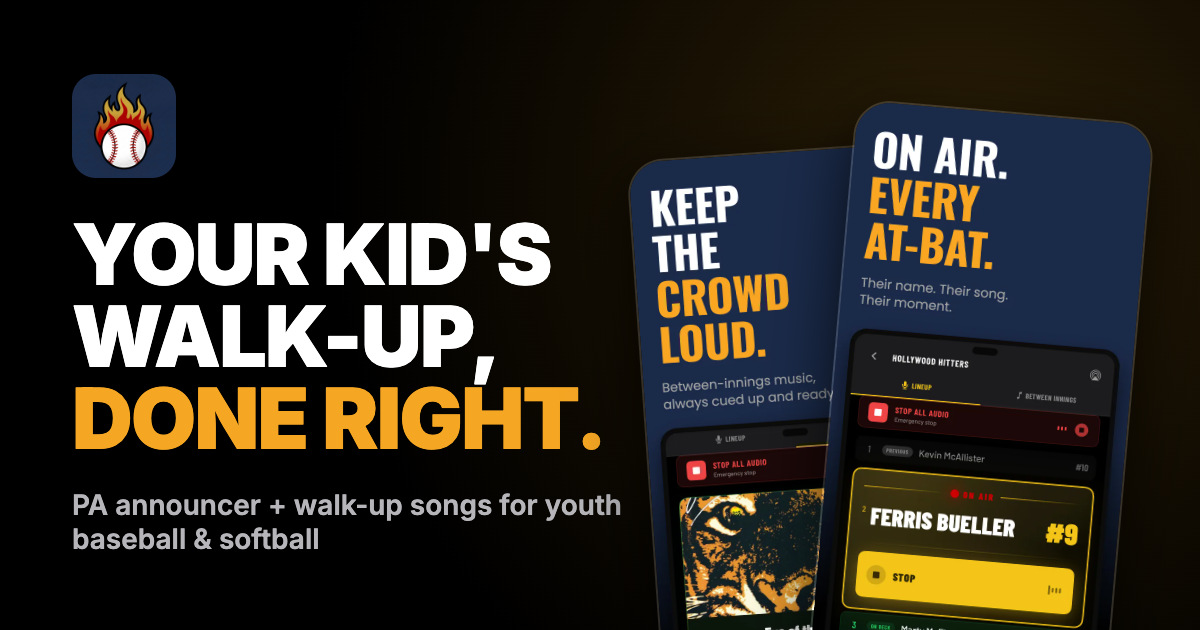
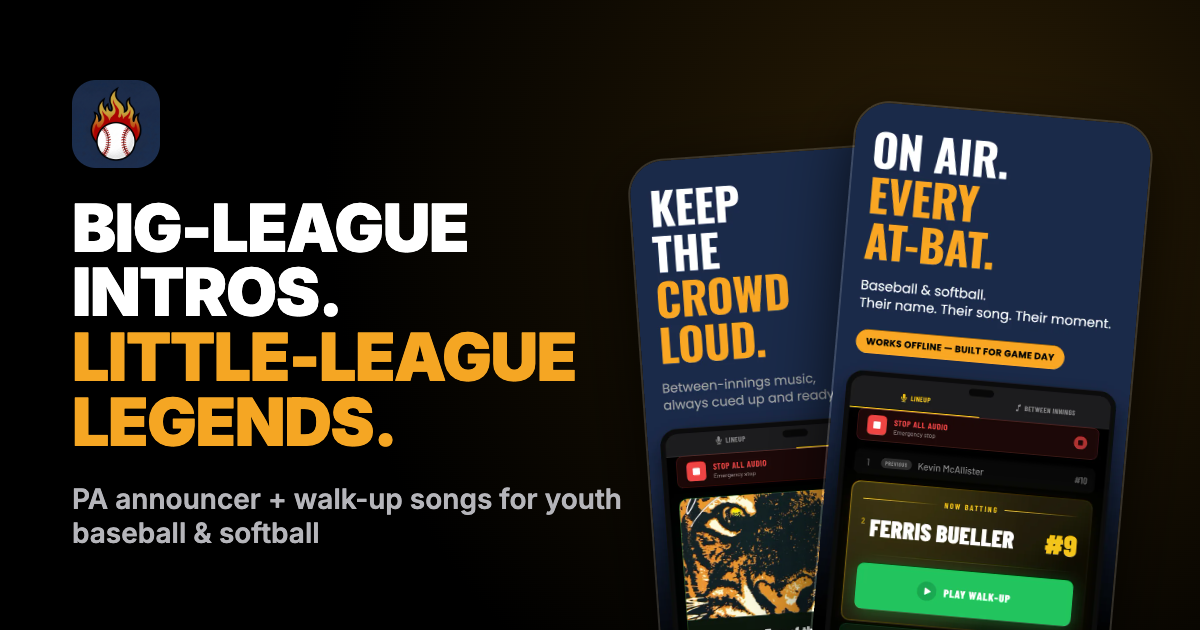
Homepage messaging pass
- Hero: "Big-league intros. Little-league legends." with an outcome subhead
  instead of "AI-powered", and a footnote that leads with free and no
  per-player fees.
- New Parents Pick section: send the link, parents pick, you approve.
- Premium card lists what you buy (all 8 voices, unlimited teams, no
  per-player fees, everything in Free); the button says Download & Try Premium.
  Free card lists parent song collection.
- The "free voice is rough" FAQ is now "Can I try Walk-Up Hype for free?".
- The baseball-dad line moves out of pricing into a short founder section
  with a closing App Store badge.
- Sections alternate black and navy down the page again.
- Share image and og:title use the new headline.

diff --git a/index.html b/index.html
@@ -14,12 +14,12 @@
   <meta property="og:type" content="website" />
   <meta property="og:site_name" content="Walk-Up Hype" />
   <meta property="og:url" content="https://walkuphype.com/" />
-  <meta property="og:title" content="Walk-Up Hype — Your kid's walk-up, done right." />
+  <meta property="og:title" content="Walk-Up Hype — Big-league intros. Little-league legends." />
   <meta property="og:description" content="A stadium announcer calls their name. Their walk-up song hits. Youth baseball &amp; softball, free on the App Store." />
   <meta property="og:image" content="https://walkuphype.com/assets/og-image.png" />
   <meta property="og:image:width" content="1200" />
   <meta property="og:image:height" content="630" />
-  <meta property="og:image:alt" content="Walk-Up Hype: Your kid's walk-up, done right." />
+  <meta property="og:image:alt" content="Walk-Up Hype: Big-league intros. Little-league legends." />
   <meta name="twitter:card" content="summary_large_image" />
   <meta name="twitter:site" content="@walkuphype" />
 
@@ -80,11 +80,11 @@
     <div class="hero-inner">
       <div class="hero-text">
         <h1 class="hero-headline">
-          YOUR KID'S WALK-UP,<br />
-          <span class="gold">DONE RIGHT.</span>
+          BIG-LEAGUE INTROS.<br />
+          <span class="gold">LITTLE-LEAGUE LEGENDS.</span>
         </h1>
         <p class="hero-subhead">
-          AI-powered announcements and walk-up music for youth baseball &amp; softball. Built for the field.
+          Give every player their moment. A stadium-style announcer calls their name, their walk-up song hits, and you run it all from one tap in the dugout.
         </p>
         <p class="hero-devices">For iPhone, iPad &amp; iPhone Duo</p>
         <div class="hero-cta">
@@ -97,7 +97,7 @@
           </div>
         </div>
         <p class="hero-rating"><span class="stars" aria-hidden="true">★★★★★</span> 4.5 from 32 App Store ratings</p>
-        <p class="hero-footnote">7-day free trial &middot; $9.99/year &middot; free tier always available</p>
+        <p class="hero-footnote">Free tier forever &middot; Premium $9.99/year &middot; No per-player fees</p>
       </div>
       <div class="hero-video-wrap">
         <video class="promo-video" autoplay muted loop playsinline poster="assets/promo-poster.jpg">
@@ -180,6 +180,33 @@
         </div>
       </div>
       <p class="voices-note">All eight come with Premium. The free tier includes two built-in voices, including <a href="minor-league-mike.html">Minor League Mike</a>.</p>
+    </div>
+  </section>
+
+  <!-- ===================== PARENTS PICK ===================== -->
+  <section id="parents-pick">
+    <div class="section-inner">
+      <p class="section-label">PARENTS PICK. YOU APPROVE.</p>
+      <h2 class="section-title">Stop chasing parents for walk-up songs.</h2>
+      <p class="section-sub">Send one link to the team group chat. Parents choose the music, you approve the picks, and game day is ready.</p>
+      <ol class="steps">
+        <li class="step">
+          <span class="step-num">01</span>
+          <h3>Send the link</h3>
+          <p>Tap Collect Songs on your team and drop the link in the group text. One message, whole team.</p>
+        </li>
+        <li class="step">
+          <span class="step-num">02</span>
+          <h3>Parents pick</h3>
+          <p>No app download. They search for a song, set where it starts, and tell the announcer how to say their kid's name.</p>
+        </li>
+        <li class="step">
+          <span class="step-num">03</span>
+          <h3>You approve</h3>
+          <p>Every pick lands in your review queue. Nothing plays until you say so.</p>
+        </li>
+      </ol>
+      <p class="steps-note">Included on the free tier. Links are encrypted and expire after 7 days.</p>
     </div>
   </section>
 
@@ -312,6 +339,7 @@
             <li>Walk-up music</li>
             <li>Between-innings music</li>
             <li>Game Mode</li>
+            <li>Parents pick songs from a link</li>
           </ul>
           <a href="https://apps.apple.com/app/apple-store/id6760152910?pt=128405385&amp;ct=walkuphype.com%20website&amp;mt=8" data-placement="pricing-free" class="btn-secondary">Download Free</a>
         </div>
@@ -322,11 +350,12 @@
           <p class="pricing-price">$9.99 <span>/ year</span></p>
           <p class="pricing-trial">7-day free trial &middot; cancel anytime</p>
           <ul class="pricing-features">
-            <li><span class="gold">✦</span> 8 stadium-quality AI announcer voices</li>
+            <li><span class="gold">✦</span> All 8 premium announcer voices</li>
             <li><span class="gold">✦</span> Unlimited teams &amp; players</li>
-            <li><span class="gold">✦</span> Support a baseball dad who codes between innings</li>
+            <li><span class="gold">✦</span> No per-player fees, ever</li>
+            <li><span class="gold">✦</span> Everything in Free</li>
           </ul>
-          <a href="https://apps.apple.com/app/apple-store/id6760152910?pt=128405385&amp;ct=walkuphype.com%20website&amp;mt=8" data-placement="pricing-premium" class="btn-primary">Start Free Trial</a>
+          <a href="https://apps.apple.com/app/apple-store/id6760152910?pt=128405385&amp;ct=walkuphype.com%20website&amp;mt=8" data-placement="pricing-premium" class="btn-primary">Download &amp; Try Premium</a>
         </div>
 
       </div>
@@ -355,8 +384,8 @@
         </details>
 
         <details class="faq-item">
-          <summary class="faq-q">What does the free announcer voice sound like?</summary>
-          <p class="faq-a">Honest answer: the default free voice is rough. It works, but it sounds like a robot reading a spreadsheet. Here's the thing though: there's a second free voice called Minor League Mike that's a real step up. It's still free, just requires a one-time download in your iPhone's Accessibility settings. <a href="minor-league-mike.html">We walk you through it step by step here.</a> If you want to actually impress parents on day one, Minor League Mike is the move. Premium is still the big leagues, 8 custom PA voices that sound like an actual stadium, but free isn't a dead end.</p>
+          <summary class="faq-q">Can I try Walk-Up Hype for free?</summary>
+          <p class="faq-a">Absolutely. The free tier includes Game Mode, walk-up music, between-innings music, parent song collection, and two built-in announcer voices. One of them, Minor League Mike, is an enhanced voice that takes a free one-time download in your iPhone settings. <a href="minor-league-mike.html">Here's the two-minute setup.</a> Want the full stadium sound? Premium's 7-day free trial unlocks all eight premium voices.</p>
         </details>
 
         <details class="faq-item">
@@ -385,6 +414,18 @@
         </details>
 
       </div>
+    </div>
+  </section>
+
+  <!-- ===================== FOUNDER ===================== -->
+  <section id="founder">
+    <div class="section-inner founder-inner">
+      <p class="section-label">BUILT BY A BASEBALL DAD</p>
+      <h2 class="section-title">Made in the dugout, not a boardroom.</h2>
+      <p class="founder-text">Walk-Up Hype started with a simple idea: every kid deserves a big-league moment, and coaches shouldn't need a sound engineering degree to make it happen. It's built by a baseball dad who codes between innings, and it keeps getting better every season because the families using it tell us what to fix.</p>
+      <a href="https://apps.apple.com/app/apple-store/id6760152910?pt=128405385&amp;ct=walkuphype.com%20website&amp;mt=8" data-placement="founder" class="appstore-badge">
+        <img src="assets/app-store-badge.svg" alt="Download on the App Store" width="180" height="60" />
+      </a>
     </div>
   </section>
 

diff --git a/style.css b/style.css
@@ -371,7 +371,7 @@ section[id] {
    VOICES
    ============================================================ */
 #voices {
-  background: var(--black);
+  background: var(--navy);
 }
 
 .voices-grid {
@@ -384,7 +384,7 @@ section[id] {
   display: flex;
   align-items: center;
   gap: 16px;
-  background: var(--navy);
+  background: var(--black);
   border: 1px solid rgba(255, 255, 255, 0.06);
   border-radius: var(--radius);
   padding: 16px;
@@ -477,6 +477,84 @@ section[id] {
   margin-top: 28px;
 }
 
+.section-sub {
+  font-size: 16px;
+  color: var(--gray);
+  text-align: center;
+  max-width: 560px;
+  margin: -24px auto 40px;
+}
+
+/* ============================================================
+   PARENTS PICK
+   ============================================================ */
+#parents-pick {
+  background: var(--black);
+}
+
+.steps {
+  list-style: none;
+  display: grid;
+  grid-template-columns: 1fr;
+  gap: 16px;
+}
+
+.step {
+  background: var(--navy);
+  border: 1px solid rgba(255, 255, 255, 0.08);
+  border-radius: var(--radius);
+  padding: 28px 24px;
+}
+
+.step-num {
+  display: block;
+  font-size: 32px;
+  font-weight: 900;
+  color: var(--gold);
+  line-height: 1;
+  margin-bottom: 12px;
+}
+
+.step h3 {
+  font-size: 18px;
+  font-weight: 700;
+  margin-bottom: 6px;
+}
+
+.step p,
+.steps-note {
+  font-size: 14px;
+  color: var(--gray);
+  line-height: 1.5;
+}
+
+.steps-note {
+  text-align: center;
+  margin-top: 28px;
+}
+
+/* ============================================================
+   FOUNDER
+   ============================================================ */
+#founder {
+  background: var(--navy);
+}
+
+.founder-inner {
+  display: flex;
+  flex-direction: column;
+  align-items: center;
+  text-align: center;
+}
+
+.founder-text {
+  font-size: 17px;
+  color: var(--gray);
+  line-height: 1.7;
+  max-width: 640px;
+  margin-bottom: 32px;
+}
+
 /* ============================================================
    DEVICES
    ============================================================ */
@@ -532,7 +610,7 @@ section[id] {
    REVIEWS
    ============================================================ */
 #reviews {
-  background: var(--navy);
+  background: var(--black);
 }
 
 .reviews-grid {
@@ -542,7 +620,7 @@ section[id] {
 }
 
 .review-card {
-  background: var(--black);
+  background: var(--navy);
   border: 1px solid rgba(255, 255, 255, 0.08);
   border-radius: var(--radius);
   padding: 24px;
@@ -577,7 +655,7 @@ section[id] {
    FEATURES
    ============================================================ */
 #features {
-  background: var(--black);
+  background: var(--navy);
 }
 
 .features-grid {
@@ -587,7 +665,7 @@ section[id] {
 }
 
 .feature-card {
-  background: var(--navy);
+  background: var(--black);
   border-radius: var(--radius);
   border: 1px solid rgba(255, 255, 255, 0.06);
   padding: 28px 24px;
@@ -622,7 +700,7 @@ section[id] {
    PRICING
    ============================================================ */
 #pricing {
-  background: var(--black);
+  background: var(--navy);
 }
 
 .pricing-cards {
@@ -634,7 +712,7 @@ section[id] {
 }
 
 .pricing-card {
-  background: var(--navy);
+  background: var(--black);
   border-radius: var(--radius);
   border: 1px solid rgba(255, 255, 255, 0.08);
   padding: 36px 28px;
@@ -698,7 +776,7 @@ section[id] {
    FAQ
    ============================================================ */
 #faq {
-  background: var(--navy);
+  background: var(--black);
 }
 
 .faq-list {
@@ -864,6 +942,10 @@ section[id] {
 
   .devices-grid {
     grid-template-columns: repeat(2, 1fr);
+  }
+
+  .steps {
+    grid-template-columns: repeat(3, 1fr);
   }
 
   .features-grid {
